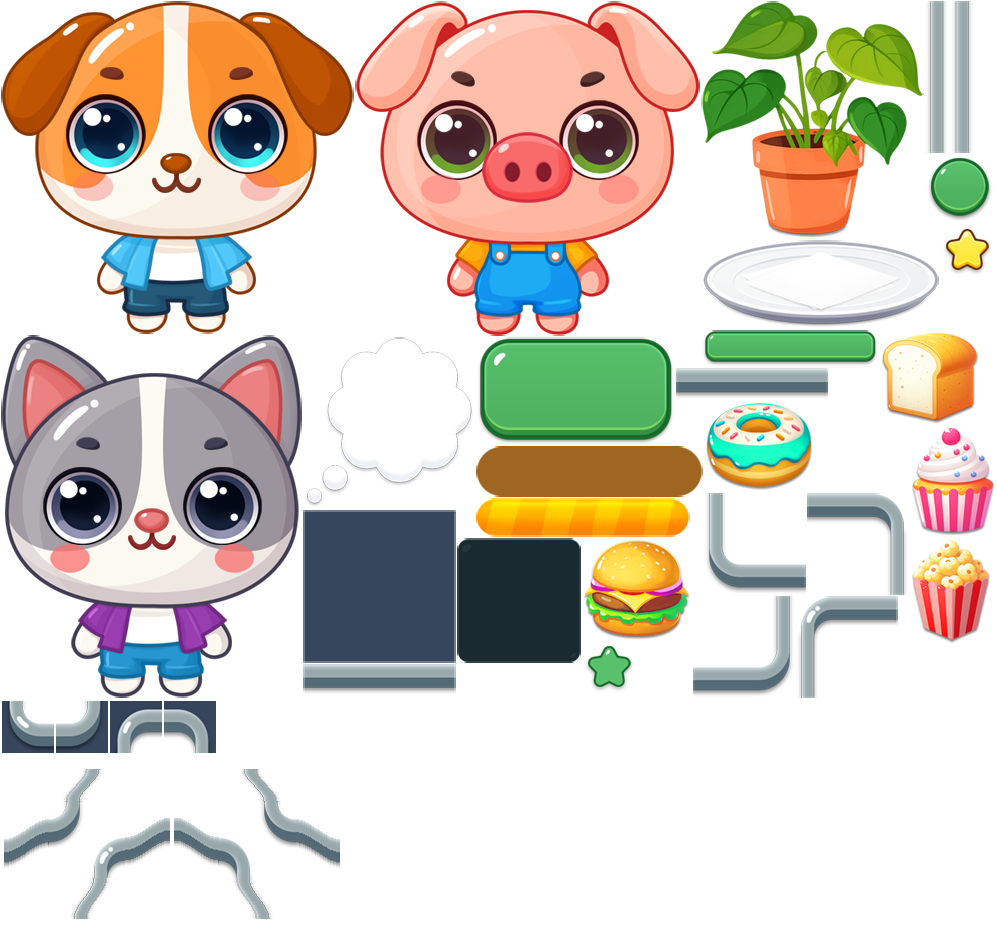
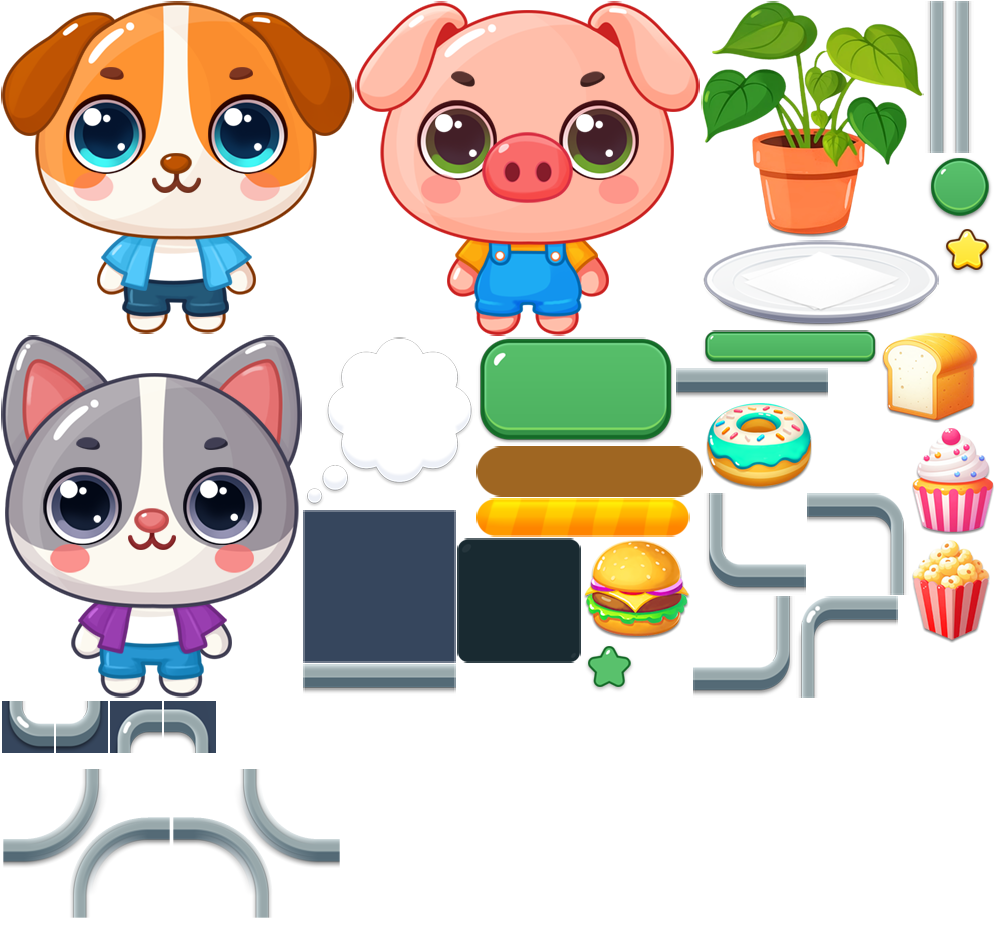
updated corners asset

Changed region(s): [[0.0, 0.8173, 0.342, 0.9989]]

diff --git a/objects/board-border.js b/objects/board-border.js
@@ -34,20 +34,20 @@ const INNER_SPAN = 42; // edge it covers for trimming, a shade less so the bar t
 // Two cells that meet only at a corner are a different problem again: both of them
 // want a corner piece on the same grid point, facing each other, and the two pieces
 // overlap into one continuous bend that reads as a single board. Such a junction
-// gets one piece instead, drawn with both corners pulled back off the point so the
-// two cells come apart with a gap between them. It covers exactly the ground the two
-// corner pieces covered, so nothing else about the frame has to move for it.
+// gets one piece instead, on which each cell's frame sweeps round on a wide arc that
+// pulls back off the point, so the two cells come apart with a gap between them. It
+// covers exactly the ground the two corner pieces covered, so nothing else has to move.
 const PINCH_HALF = 84; // half the piece, which is square and centred on the junction
-const PINCH_PULL = 20; // how far a corner is pulled back along the diagonal
-const PINCH_HOLD = 38; // ...and how far out the bar stays pulled over before it bends back
-const PINCH_STEPS = 8; // segments used to trace one pinched corner of the slab
-const CORNER_SIZE = 100; // a corner piece is square, so it reaches this far past its inset
+const PINCH_RADIUS = 68; // the arc the frame sweeps round on, along the bar's centre line
+const PINCH_STEPS = 8; // segments used to trace one corner of the slab
+
+// Where a bar's centre line runs, measured out from the cell edge it belongs to.
+const BAR_CENTER_H = 11.25; // top and bottom bars
+const BAR_CENTER_V = 6; // left and right ones
 
 const FILL_COLOR = 0x36465d;
 const FILL_RADIUS = 11; // follows the curve on the inside of a corner piece
 const FILL_BLEED = .5; // cells overlap by this much so no seam shows between them
-
-const smoothstep = (t) => t * t * (3 - 2 * t);
 
 export class BoardBorder extends Phaser.GameObjects.Container {
 
@@ -172,9 +172,10 @@ export class BoardBorder extends Phaser.GameObjects.Container {
     // One corner of the slab, walked from the cell's horizontal edge round into its
     // vertical one. (sx, sy) picks the corner: (1, 1) is the bottom right one.
     //
-    // A pinched corner follows the same line the pinch piece bends along - held back
-    // by the pull near the junction, easing out to the cell's own edge by the far end
-    // of the piece - so the slab stays underneath the bar the whole way round.
+    // A pinched corner follows the wide arc the junction piece sweeps round on. The
+    // slab's edge is that arc brought in by the thickness of each bar, which lands on
+    // an ellipse touching both edges of the cell - so it stays under the bar the whole
+    // way round and still meets the straight edges cleanly at either end.
     cornerPoints(box, sx, sy, pinched, radius) {
 
         const x = sx > 0 ? box.right : box.left;
@@ -183,46 +184,18 @@ export class BoardBorder extends Phaser.GameObjects.Container {
         const points = [];
         const at = (dx, dy) => points.push({ x: x - sx * dx, y: y - sy * dy });
 
-        if (pinched) {
+        const spanX = pinched ? (PINCH_RADIUS - BAR_CENTER_V) * this.unit : radius;
+        const spanY = pinched ? (PINCH_RADIUS - BAR_CENTER_H) * this.unit : radius;
 
-            // A shade less than the piece is pulled back, so the slab tucks under the
-            // bar rather than leaving a seam along it.
-            const pull = (PINCH_PULL - FILL_BLEED * 2) * this.unit;
-            const hold = PINCH_HOLD * this.unit;
-            const curve = FILL_RADIUS * this.unit;
-
-            // How far the bend runs: the reach of the corner piece it replaces, which
-            // is the short way round on the side the cell is on.
-            const reachX = (sx > 0 ? CORNER_INSET_X : CORNER_SIZE - BAR_SIDE) * this.unit;
-            const reachY = (sy > 0 ? CORNER_INSET_Y : CORNER_SIZE - BAR_TOP) * this.unit;
-
-            for (let n = 0; n <= PINCH_STEPS; n++) {
-                const t = n / PINCH_STEPS;
-                at(reachX - (reachX - hold) * t, pull * smoothstep(t));
-            }
-
-            for (let n = 0; n <= PINCH_STEPS; n++) {
-                const a = Math.PI / 2 * n / PINCH_STEPS;
-                at(pull + curve - curve * Math.sin(a), pull + curve - curve * Math.cos(a));
-            }
-
-            for (let n = 0; n <= PINCH_STEPS; n++) {
-                const t = n / PINCH_STEPS;
-                at(pull * smoothstep(1 - t), hold + (reachY - hold) * t);
-            }
-
+        if (!spanX && !spanY) {
+            at(0, 0);
             return points;
         }
 
-        if (radius) {
-            for (let n = 0; n <= PINCH_STEPS; n++) {
-                const a = Math.PI / 2 * n / PINCH_STEPS;
-                at(radius - radius * Math.sin(a), radius - radius * Math.cos(a));
-            }
-            return points;
+        for (let n = 0; n <= PINCH_STEPS; n++) {
+            const a = Math.PI / 2 * n / PINCH_STEPS;
+            at(spanX - spanX * Math.sin(a), spanY - spanY * Math.cos(a));
         }
-
-        at(0, 0);
 
         return points;
     }

diff --git a/objects/board.js b/objects/board.js
@@ -9,7 +9,7 @@ const BOARD_MARGIN = 24;
 // A cell's artwork is drawn a little smaller than the cell it belongs to, so the
 // slab shows through as a gap between one cell and the next, and between the
 // outer cells and the frame around them.
-const CELL_FIT = .9;
+const CELL_FIT = .95;
 
 export class Board extends Phaser.GameObjects.Container {
     constructor(scene, x, y) {
@@ -562,14 +562,15 @@ export class Board extends Phaser.GameObjects.Container {
 
         g.fillStyle(0xffffff, 1);
         g.beginPath();
-        g.moveTo(half, 0);``
+        g.moveTo(half, 0);
+        ``
         g.lineTo(half + 4, half - 4);
         g.lineTo(size, half);
         g.lineTo(half + 4, half + 4);
         g.lineTo(half, size);
         g.lineTo(half - 4, half + 4);
         g.lineTo(0, half);
-        
+
         g.lineTo(half - 4, half - 4);
         g.closePath();
         g.fillPath();

diff --git a/objects/moves.js b/objects/moves.js
@@ -35,7 +35,7 @@ export class Moves extends Phaser.GameObjects.Container {
 
         this.panel = this.scene.add.sprite(0, 0, "sheet", "Button");
         this.panel.setOrigin(.5);
-        this.panel.setScale(ART +.1);
+        this.panel.setScale(ART + .1);
         this.add(this.panel);
 
         this.label = this.scene.add.text(0, -12, "Moves", {

diff --git a/data/data.js b/data/data.js
@@ -13,7 +13,7 @@ export default {
         pattern: [
             [0, 0, 0, -2, 0, 0, 0],
             [0, 0, 0, 0, 0, 0, 0],
-            [0, 0, 0, 0, 0, 0, 0],
+            [0, -2, 0, 0, 0, 0, 0],
             [-2, 0, 0, 0, 0, 0, -2],
             [0, 0, 0, 0, 0, 0, 0],
             [0, 0, 0, 0, 0, 0, 0],

diff --git a/!dev/gen_pinch.py b/!dev/gen_pinch.py
@@ -1,17 +1,22 @@
-"""Bake the diagonal 'pinch' border pieces out of the existing corner + bar art.
+"""Bake the diagonal 'pinch' border pieces out of the existing bar art.
 
-Where two solid cells touch only at a corner, the two outward corner caps land on
-the same grid point facing each other and overlap into an S, so the two cells read
-as one connected board. This bakes one piece for that junction instead: each cap
-pulled back along the diagonal to open a gap between the cells, and the bar tails
-bent back onto their own edges inside the cap's own footprint - so the piece drops
-straight in where the two caps used to go and nothing else about the frame moves.
+Where two solid cells touch only at a corner, both of them want a corner piece on
+that one grid point, facing each other, and the two overlap into a single S bend -
+so the pair reads as one connected board. This bakes one piece for that junction
+instead: each cell's frame sweeps round it on a wide arc that pulls back off the
+point, opening a gap between the two cells.
 
-    python3 gen_pinch.py [pull] [curve] [dest/]
+The arc is swept from the bar art itself - the cross section of the top/bottom bar
+turning into the cross section of the left/right one - so the piece is the same
+tubing as the rest of the frame, just on a lazier curve than a corner piece. It
+lands inside the footprint of the two corner pieces it replaces, so it drops
+straight in and nothing else about the frame has to move.
 
-The pieces the game ships were baked with the defaults below, and board-border.js
-draws the slab to the same shape: PINCH_PULL is this pull and PINCH_HOLD is
-pull + curve. Change one here and change it there too.
+    python3 gen_pinch.py [radius] [dest/]
+
+board-border.js draws the slab to the same curve: PINCH_RADIUS is this radius, and
+BAR_CENTER_H / BAR_CENTER_V are the bar centres printed below. Change one here and
+change it there too.
 """
 import os, sys, json
 from PIL import Image
@@ -21,106 +26,131 @@ SRC = os.path.join(os.path.dirname(os.path.abspath(__file__)), "..", "assets", "
 
 BAR_TOP = 21.5; BAR_SIDE = 16.5; RIGHT_BAR_INSET = 4.5
 CORNER_INSET_X = 82.5; CORNER_INSET_Y = 70
+CORNER_SIZE = 100
 
-PULL = float(sys.argv[1]) if len(sys.argv) > 1 else 20.0   # how far each cap pulls back
-CURVE = float(sys.argv[2]) if len(sys.argv) > 2 else 18.0  # cap kept whole this far from the corner
-DEST = sys.argv[3] if len(sys.argv) > 3 else SRC
+RADIUS = float(sys.argv[1]) if len(sys.argv) > 1 else 68.0
+DEST = sys.argv[2] if len(sys.argv) > 2 else SRC
+
+HALF = 84       # the piece is square and centred on the junction, like the pair it replaces
+SAMPLES = 3     # supersampling per pixel, so the sweep comes out with clean edges
 
 _cache = {}
-def img(n):
-    if n not in _cache: _cache[n] = Image.open(SRC + n + ".png").convert("RGBA")
-    return _cache[n]
+def bar(name):
+    if name not in _cache: _cache[name] = np.array(Image.open(SRC + name + ".png").convert("RGBA")).astype(float)
+    return _cache[name]
 
-def rnd(v):
-    """half-up: round-half-even would drop or double a column every other step
-    along a tail that starts on a .5 offset"""
-    return int(np.floor(v + 0.5))
+# A bar sprite is uniform along its run, so one slice across it is the whole shape:
+# the profile the sweep carries round the corner.
+def profile(name, horizontal):
+    a = bar(name)
+    return a[:, a.shape[1] // 2, :] if horizontal else a[a.shape[0] // 2, :, :]
 
-def smooth(t):
-    t = max(0.0, min(1.0, t))
-    return t * t * (3 - 2 * t)
+# ...and the middle of its solid core is where the centre line of the sweep runs.
+def core_centre(strip):
+    solid = np.where(strip[:, 3] >= 200)[0]
+    return (solid[0] + solid[-1]) / 2
 
-# One half of a junction: the solid cell lying diagonally (sx, sy) from the point.
+# One half of a junction: the solid cell lying diagonally (sx, sy) from the point,
+# with its two bars turning into each other around the corner nearest the point.
 def half(sx, sy):
+    h = "bottom" if sy < 0 else "top"
+    v = "right" if sx < 0 else "left"
+
+    hstrip = profile(h, True)
+    vstrip = profile(v, False)
+
+    # where each bar sits relative to the cell edge it runs along
+    hoff = 0.0 if sy < 0 else -BAR_TOP
+    voff = -RIGHT_BAR_INSET if sx < 0 else -BAR_SIDE
+
     return dict(
-        sx=sx, sy=sy,
-        cap=("bottom" if sy < 0 else "top") + ("_right" if sx < 0 else "_left"),
-        # where the junction sits inside the cap sprite
-        cpx=CORNER_INSET_X if sx < 0 else BAR_SIDE,
-        cpy=CORNER_INSET_Y if sy < 0 else BAR_TOP,
-        # the bars along the cell's two edges, running away from the junction
-        h=dict(sprite="bottom" if sy < 0 else "top", off=0.0 if sy < 0 else -BAR_TOP),
-        v=dict(sprite="right" if sx < 0 else "left", off=-RIGHT_BAR_INSET if sx < 0 else -BAR_SIDE),
+        sx=sx, sy=sy, outx=-sx, outy=-sy,
+        hstrip=hstrip, vstrip=vstrip,
+        hcentre=hoff + core_centre(hstrip),   # the bar centre lines, in junction space
+        vcentre=voff + core_centre(vstrip),
+        hindex=core_centre(hstrip), vindex=core_centre(vstrip),
+        # how far the piece reaches: exactly what the corner piece it replaces covered
+        hspan=CORNER_INSET_X if sx < 0 else CORNER_SIZE - BAR_SIDE,
+        vspan=CORNER_INSET_Y if sy < 0 else CORNER_SIZE - BAR_TOP,
     )
+
+def sample(strip, index, centre, out):
+    """the bar's cross section, read at a signed distance out from its centre line"""
+    at = centre + index * out
+    rgba = np.empty(index.shape + (4,))
+    xs = np.arange(strip.shape[0])
+    for c in range(4):
+        rgba[..., c] = np.interp(at, xs, strip[:, c], left=0, right=0)
+    return rgba
 
 def build(kind):
     halves = [half(-1, -1), half(1, 1)] if kind == "down" else [half(1, -1), half(-1, 1)]
 
-    ext = 0
-    for h in halves:
-        s = img(h["cap"])
-        ext = max(ext, h["cpx"], s.width - h["cpx"], h["cpy"], s.height - h["cpy"])
-    ext = int(np.ceil(ext))
-    W = H = ext * 2
-    canvas = np.zeros((H, W, 4), dtype=float)
+    n = HALF * 2 * SAMPLES
+    step = 1.0 / SAMPLES
+    axis = -HALF + (np.arange(n) + 0.5) * step
+    X, Y = np.meshgrid(axis, axis)
 
-    def blend(x, y, patch):
-        ph, pw = patch.shape[:2]
-        x0 = max(0, x); y0 = max(0, y); x1 = min(W, x + pw); y1 = min(H, y + ph)
-        if x1 <= x0 or y1 <= y0: return
-        sub = patch[y0 - y:y1 - y, x0 - x:x1 - x]
-        base = canvas[y0:y1, x0:x1]
-        sa = sub[..., 3:4] / 255.0
-        ba = base[..., 3:4] / 255.0
-        out_a = sa + ba * (1 - sa)
-        out_rgb = np.where(out_a > 0, (sub[..., :3] * sa + base[..., :3] * ba * (1 - sa)) / np.maximum(out_a, 1e-6), 0)
-        base[..., :3] = out_rgb
-        base[..., 3:4] = out_a * 255
-
-    taper_used = []
+    out = np.zeros((n, n, 4))
 
     for h in halves:
-        cap = np.array(img(h["cap"])).astype(float)
-        sx, sy = h["sx"], h["sy"]
 
-        # Tails: from the outer end of the cap's footprint, sitting exactly on the
-        # bar line, bending over to the pulled back corner.
-        capw, caph = img(h["cap"]).size
-        hspan = h["cpx"] if sx < 0 else capw - h["cpx"]
-        vspan = h["cpy"] if sy < 0 else caph - h["cpy"]
+        cy = h["hcentre"]           # the horizontal bar's centre line
+        cx = h["vcentre"]           # ...and the vertical one's
+        cornerX, cornerY = cx, cy   # where the two would meet if they ran on
 
-        for axis, span in (("h", hspan), ("v", vspan)):
-            bar = h[axis]
-            src = np.array(img(bar["sprite"]))
-            strip = (src[:, src.shape[1] // 2, :] if axis == "h" else src[src.shape[0] // 2, :, :]).astype(float)
-            strip = strip.reshape(-1, 1, 4) if axis == "h" else strip.reshape(1, -1, 4)
-            sign = sx if axis == "h" else sy          # which way the tail runs
-            pull = (sy if axis == "h" else sx) * PULL # which way it is pulled
-            taper = span - CURVE - PULL
-            taper_used.append(round(taper, 1))
-            # from the outer end of the footprint in to where the corner crop takes over
-            for n in range(int(round(taper)) + 1):
-                along = sign * (span - n)
-                dist = abs(along)
-                off = bar["off"] + pull * smooth(1 - (dist - CURVE - PULL) / taper)
-                if axis == "h": blend(rnd(along) + ext, rnd(off) + ext, strip)
-                else: blend(rnd(off) + ext, rnd(along) + ext, strip)
+        # The arc is tangent to both centre lines, pulled back into the cell so the
+        # two halves of the junction come apart.
+        centreX = cornerX + h["sx"] * RADIUS
+        centreY = cornerY + h["sy"] * RADIUS
 
-        # The corner itself, kept whole and slid back along the diagonal.
-        cx0 = 0 if sx > 0 else int(round(h["cpx"] - CURVE))
-        cx1 = cap.shape[1] if sx < 0 else int(round(h["cpx"] + CURVE))
-        cy0 = 0 if sy > 0 else int(round(h["cpy"] - CURVE))
-        cy1 = cap.shape[0] if sy < 0 else int(round(h["cpy"] + CURVE))
-        crop = cap[max(0, cy0):cy1, max(0, cx0):cx1]
-        blend(rnd(max(0, cx0) - h["cpx"] + sx * PULL) + ext,
-              rnd(max(0, cy0) - h["cpy"] + sy * PULL) + ext, crop)
+        u = (X - centreX) * h["outx"]
+        v = (Y - centreY) * h["outy"]
 
-    return Image.fromarray(np.clip(canvas, 0, 255).astype(np.uint8)), ext, taper_used
+        turning = (u >= 0) & (v >= 0)
+        running_v = ~turning & (v < 0)   # past the arc, straight along the vertical bar
 
-info = {"pull": PULL, "curve": CURVE}
+        # distance out from the centre line, and how far round the turn we are
+        dist = np.hypot(u, v) - RADIUS
+        along = np.where(turning, dist, np.where(running_v, (X - cx) * h["outx"], (Y - cy) * h["outy"]))
+        turn = np.where(turning, 1 - np.arctan2(np.maximum(v, 0), np.maximum(u, 0)) / (np.pi / 2),
+                        np.where(running_v, 1.0, 0.0))
+
+        # the straight runs stop where the corner pieces used to stop
+        within = np.where(turning, True,
+                          np.where(running_v, Y * h["sy"] <= h["vspan"], X * h["sx"] <= h["hspan"]))
+
+        hcol = sample(h["hstrip"], along, h["hindex"], h["outy"])
+        vcol = sample(h["vstrip"], along, h["vindex"], h["outx"])
+
+        # cross fade the two cross sections around the turn, on premultiplied alpha
+        t = turn[..., None]
+        pre = hcol[..., :3] * hcol[..., 3:4] * (1 - t) + vcol[..., :3] * vcol[..., 3:4] * t
+        alpha = hcol[..., 3:4] * (1 - t) + vcol[..., 3:4] * t
+        alpha = np.where(within[..., None], alpha, 0)
+
+        rgb = np.where(alpha > 0, pre / np.maximum(alpha, 1e-6), 0)
+
+        # over what is already there
+        sa = alpha / 255.0
+        ba = out[..., 3:4] / 255.0
+        oa = sa + ba * (1 - sa)
+        out[..., :3] = np.where(oa > 0, (rgb * sa + out[..., :3] * ba * (1 - sa)) / np.maximum(oa, 1e-6), 0)
+        out[..., 3:4] = oa * 255
+
+    # back down from the supersampled grid
+    out = out.reshape(HALF * 2, SAMPLES, HALF * 2, SAMPLES, 4)
+    pre = out[..., :3] * out[..., 3:4]
+    alpha = out[..., 3:4].mean(axis=(1, 3))
+    rgb = np.where(alpha > 0, pre.mean(axis=(1, 3)) / np.maximum(alpha, 1e-6), 0)
+
+    flat = np.concatenate([rgb, alpha], axis=-1)
+    return Image.fromarray(np.clip(flat, 0, 255).astype(np.uint8)), halves
+
+info = {"radius": RADIUS, "half": HALF}
 for kind in ("down", "up"):
-    im, ext, tapers = build(kind)
+    im, halves = build(kind)
     im.save(DEST + "pinch_" + kind + ".png")
-    info[kind] = dict(size=im.size[0], half=ext, tapers=tapers)
-    print(kind, im.size, "half extent", ext, "tapers", tapers)
-print(json.dumps(info))
+    info[kind] = [{"cell": [h["sx"], h["sy"]], "hcentre": round(h["hcentre"], 2), "vcentre": round(h["vcentre"], 2)} for h in halves]
+    print(kind, im.size)
+print(json.dumps(info, indent=1))
